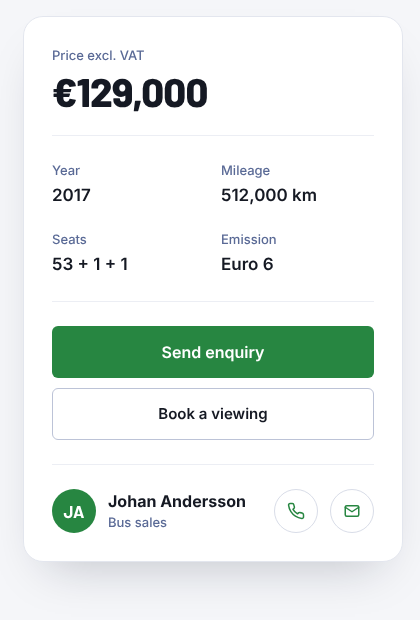
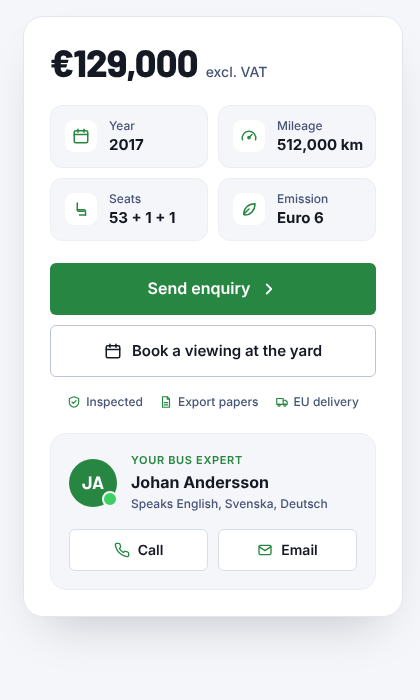
Truxco record: price card design restored with more spacing
Claude-Session: https://claude.ai/code/session_01CJrfSMbtJkdqaRmDBKHX4E

diff --git a/truxco-design/website-v2/BusDetail.dc.html b/truxco-design/website-v2/BusDetail.dc.html
@@ -43,7 +43,7 @@ a{color:#3050A6}a:hover{color:#151923}
 .bd-arrow{position:absolute;top:50%;transform:translateY(-50%);width:48px;height:48px;border-radius:50%;border:0;background:rgba(255,255,255,0.9);color:#151923;display:flex;align-items:center;justify-content:center;cursor:pointer;box-shadow:0 6px 18px rgba(0,0,0,0.25);transition:transform .15s,background .15s}.bd-arrow:hover{background:#FFFFFF;transform:translateY(-50%) scale(1.06)}
 .bd-chip-glass{white-space:nowrap;display:inline-flex;align-items:center;gap:6px;font-size:13px;font-weight:600;padding:7px 12px;border-radius:999px;background:rgba(13,16,22,0.55);border:1px solid rgba(255,255,255,0.18);backdrop-filter:blur(6px)}
 .bd-thumb{font:inherit;padding:0;border:0;border-radius:12px;overflow:hidden;aspect-ratio:4/3;cursor:pointer;background:#E3E6EE;transition:opacity .15s,outline-color .15s;outline:3px solid transparent;outline-offset:2px}.bd-thumb:hover{opacity:1!important}
-.bd-kpi{display:flex;align-items:center;gap:10px;padding:10px 12px;border-radius:12px;background:#F5F6F9;border:1px solid #ECEEF4;min-width:0}.bd-kpi-ic{flex:none;width:32px;height:32px;border-radius:9px;background:#FFFFFF;display:flex;align-items:center;justify-content:center}
+.bd-kpi{display:flex;align-items:center;gap:12px;padding:12px 14px;border-radius:12px;background:#F5F6F9;border:1px solid #ECEEF4;min-width:0}.bd-kpi-ic{flex:none;width:32px;height:32px;border-radius:9px;background:#FFFFFF;display:flex;align-items:center;justify-content:center}
 .bd-cta{display:flex;align-items:center;justify-content:center;gap:10px;height:52px;border-radius:6px;background:#278641;color:#FFFFFF;text-decoration:none;font-weight:600;font-size:16px;transition:background .15s,transform .15s}.bd-cta:hover{background:#1F6E35}
 .bd-cta2{display:inline-flex;align-items:center;justify-content:center;gap:10px;height:50px;padding:0 18px;border-radius:6px;background:#FFFFFF;color:#151923;text-decoration:none;font-weight:600;font-size:15px;border:1px solid #BCC3D7;transition:border-color .15s}.bd-cta2:hover{border-color:#475476}
 .bd-round{flex:none;width:42px;height:42px;border-radius:50%;border:1px solid #D9DDE8;display:flex;align-items:center;justify-content:center;transition:background .15s}.bd-round:hover{background:#EEF6F0}
@@ -52,7 +52,7 @@ a{color:#3050A6}a:hover{color:#151923}
 .bd-hl{display:flex;gap:12px;align-items:center;padding:14px;border-radius:14px;background:linear-gradient(180deg,#F7FBF8,#FFFFFF);border:1px solid #E2EEE5}
 .bd-hl-ic{flex:none;width:44px;height:44px;border-radius:12px;background:#E2F8E8;display:flex;align-items:center;justify-content:center}
 .bd-sgroup{padding:0 28px;border-left:1px solid #ECEEF4}.bd-sgroup:first-child{padding-left:0;border-left:0}.bd-sgroup:last-child{padding-right:0}.bd-spec{display:flex;flex-direction:column;gap:2px;padding-bottom:14px;border-bottom:1px solid #ECEEF4}.bd-spec dt{font-size:13px;color:#5A6A96}.bd-spec dd{margin:0;font-size:16px;font-weight:600;color:#151923}
-.bd-contact{display:flex;flex-direction:column;gap:12px;padding:14px;border-radius:16px;background:#F5F6F9;border:1px solid #ECEEF4}.bd-lang{font-size:12px;font-weight:600;color:#343D56;background:#FFFFFF;border:1px solid #E3E6EE;padding:4px 10px;border-radius:999px}.bd-cbtn{display:flex;align-items:center;justify-content:center;gap:8px;height:40px;border-radius:6px;background:#FFFFFF;border:1px solid #D9DDE8;color:#151923;text-decoration:none;font-weight:600;font-size:14px;transition:border-color .15s}.bd-cbtn:hover{border-color:#278641}
+.bd-contact{display:flex;flex-direction:column;gap:16px;padding:18px;border-radius:16px;background:#F5F6F9;border:1px solid #ECEEF4}.bd-lang{font-size:12px;font-weight:600;color:#343D56;background:#FFFFFF;border:1px solid #E3E6EE;padding:4px 10px;border-radius:999px}.bd-cbtn{display:flex;align-items:center;justify-content:center;gap:8px;height:40px;border-radius:6px;background:#FFFFFF;border:1px solid #D9DDE8;color:#151923;text-decoration:none;font-weight:600;font-size:14px;transition:border-color .15s}.bd-cbtn:hover{border-color:#278641}
 .bd-row{display:flex;justify-content:space-between;gap:16px;padding:11px 0;border-bottom:1px dashed #E3E6EE;font-size:15px}.bd-row dt{color:#475476}.bd-row dd{margin:0;font-weight:600;color:#151923;text-align:right}
 .bd-eq{display:flex;align-items:center;gap:12px;font-size:15px;font-weight:500;color:#151923}.bd-eq-ic{flex:none;width:22px;height:22px;border-radius:50%;background:#278641;display:flex;align-items:center;justify-content:center}
 .bd-check{display:flex;justify-content:space-between;align-items:center;gap:12px;padding:12px 0;border-bottom:1px solid #ECEEF4;font-size:15px;color:#151923}
@@ -316,21 +316,27 @@ a{color:#3050A6}a:hover{color:#151923}
 <section id="delivery" class="bd-panel" style="background: #FFFFFF; border: 1px solid #E3E6EE; border-radius: 16px; padding: clamp(20px, 3vw, 32px); display: flex; flex-direction: column; gap: 20px; scroll-margin-top: 90px"><h2 style="margin: 0; font-family: 'Barlow', sans-serif; font-weight: 700; font-size: 26px; line-height: 1.15; color: #151923">How buying works</h2><ol class="bd-steps" style="list-style: none; margin: 0; padding: 0; display: grid; grid-template-columns: repeat(4, minmax(0, 1fr)); gap: 16px"><li style="display: flex; flex-direction: column; gap: 10px; position: relative"><span class="bd-step-ic"><svg aria-hidden="true" width="22" height="22" viewBox="0 0 24 24" fill="none" stroke="#FFFFFF" stroke-width="2" stroke-linecap="round" stroke-linejoin="round" style="flex: none"><circle cx="8" cy="15" r="4"></circle><path d="M11 12l9-9M17 6l3 3"></path></svg><span class="bd-step-n">1</span></span><strong style="font-size: 16px; color: #151923">Reserve</strong><span style="font-size: 14px; color: #475476; line-height: 1.55">Pay a deposit and we hold the bus for you.</span></li><li style="display: flex; flex-direction: column; gap: 10px; position: relative"><span class="bd-step-ic"><svg aria-hidden="true" width="22" height="22" viewBox="0 0 24 24" fill="none" stroke="#FFFFFF" stroke-width="2" stroke-linecap="round" stroke-linejoin="round" style="flex: none"><rect x="2" y="5" width="20" height="14" rx="2"></rect><path d="M2 10h20"></path></svg><span class="bd-step-n">2</span></span><strong style="font-size: 16px; color: #151923">Pay</strong><span style="font-size: 14px; color: #475476; line-height: 1.55">Bank transfer or financing through our partners.</span></li><li style="display: flex; flex-direction: column; gap: 10px; position: relative"><span class="bd-step-ic"><svg aria-hidden="true" width="22" height="22" viewBox="0 0 24 24" fill="none" stroke="#FFFFFF" stroke-width="2" stroke-linecap="round" stroke-linejoin="round" style="flex: none"><path d="M14 3H6v18h12V7z"></path><path d="M14 3v4h4M9 13h6M9 17h6"></path></svg><span class="bd-step-n">3</span></span><strong style="font-size: 16px; color: #151923">Papers</strong><span style="font-size: 14px; color: #475476; line-height: 1.55">We prepare the export and registration papers.</span></li><li style="display: flex; flex-direction: column; gap: 10px; position: relative"><span class="bd-step-ic"><svg aria-hidden="true" width="22" height="22" viewBox="0 0 24 24" fill="none" stroke="#FFFFFF" stroke-width="2" stroke-linecap="round" stroke-linejoin="round" style="flex: none"><path d="M3 6h11v10H3z"></path><path d="M14 9h4l3 3v4h-7"></path><circle cx="7" cy="17.5" r="1.8"></circle><circle cx="17" cy="17.5" r="1.8"></circle></svg><span class="bd-step-n">4</span></span><strong style="font-size: 16px; color: #151923">Delivery</strong><span style="font-size: 14px; color: #475476; line-height: 1.55">Pick it up in Staffanstorp or we deliver across Europe.</span></li></ol></section>
 </div>
 <aside class="bd-buy" aria-label="Price and contact" style="align-self: start; position: sticky; top: 16px">
-<div style="background: #FFFFFF; border: 1px solid #E3E6EE; border-radius: 20px; padding: 28px; display: flex; flex-direction: column; gap: 24px; box-shadow: 0 24px 48px -24px rgba(14,22,42,0.25)">
-<div style="display: flex; flex-direction: column; gap: 6px"><span style="font-size: 13px; color: #5A6A96">Price excl. VAT</span><span style="font-family: 'Barlow', sans-serif; font-weight: 800; font-size: 40px; line-height: 1; letter-spacing: -0.02em; color: #151923">€129,000</span></div>
-<hr style="margin: 0; border: 0; border-top: 1px solid #ECEEF4">
-<div style="display: grid; grid-template-columns: repeat(2, minmax(0, 1fr)); gap: 20px 16px"><div style="display: flex; flex-direction: column; gap: 2px"><span style="font-size: 13px; color: #5A6A96">Year</span><strong style="font-size: 17px; font-weight: 600; color: #151923; white-space: nowrap">2017</strong></div><div style="display: flex; flex-direction: column; gap: 2px"><span style="font-size: 13px; color: #5A6A96">Mileage</span><strong style="font-size: 17px; font-weight: 600; color: #151923; white-space: nowrap">512,000 km</strong></div><div style="display: flex; flex-direction: column; gap: 2px"><span style="font-size: 13px; color: #5A6A96">Seats</span><strong style="font-size: 17px; font-weight: 600; color: #151923; white-space: nowrap">53 + 1 + 1</strong></div><div style="display: flex; flex-direction: column; gap: 2px"><span style="font-size: 13px; color: #5A6A96">Emission</span><strong style="font-size: 17px; font-weight: 600; color: #151923; white-space: nowrap">Euro 6</strong></div></div>
-<hr style="margin: 0; border: 0; border-top: 1px solid #ECEEF4">
+<div style="background: #FFFFFF; border: 1px solid #E3E6EE; border-radius: 20px; padding: 26px; display: flex; flex-direction: column; gap: 22px; box-shadow: 0 24px 48px -24px rgba(14,22,42,0.25)">
+<p style="margin: 0; display: flex; align-items: baseline; gap: 8px; flex-wrap: wrap"><span style="font-family: 'Barlow', sans-serif; font-weight: 800; font-size: 38px; line-height: 1; letter-spacing: -0.02em; color: #151923">€129,000</span><span style="font-size: 14px; color: #475476">excl. VAT</span></p>
+<div style="display: grid; grid-template-columns: repeat(2, minmax(0, 1fr)); gap: 10px"><div class="bd-kpi"><span class="bd-kpi-ic"><svg aria-hidden="true" width="18" height="18" viewBox="0 0 24 24" fill="none" stroke="#278641" stroke-width="2" stroke-linecap="round" stroke-linejoin="round" style="flex: none"><rect x="3" y="5" width="18" height="16" rx="2"></rect><path d="M3 10h18M8 3v4M16 3v4"></path></svg></span><span style="display: flex; flex-direction: column; gap: 2px; min-width: 0"><span style="font-size: 12px; color: #475476; line-height: 1.3">Year</span><strong style="font-size: 15px; font-weight: 700; color: #151923; white-space: nowrap; line-height: 1.3">2017</strong></span></div><div class="bd-kpi"><span class="bd-kpi-ic"><svg aria-hidden="true" width="18" height="18" viewBox="0 0 24 24" fill="none" stroke="#278641" stroke-width="2" stroke-linecap="round" stroke-linejoin="round" style="flex: none"><path d="M12 14l4-4"></path><path d="M3.3 17a9 9 0 1 1 17.4 0"></path><circle cx="12" cy="14" r="1.5"></circle></svg></span><span style="display: flex; flex-direction: column; gap: 2px; min-width: 0"><span style="font-size: 12px; color: #475476; line-height: 1.3">Mileage</span><strong style="font-size: 15px; font-weight: 700; color: #151923; white-space: nowrap; line-height: 1.3">512,000 km</strong></span></div><div class="bd-kpi"><span class="bd-kpi-ic"><svg aria-hidden="true" width="18" height="18" viewBox="0 0 24 24" fill="none" stroke="#278641" stroke-width="2" stroke-linecap="round" stroke-linejoin="round" style="flex: none"><path d="M7 4v9a2 2 0 0 0 2 2h7"></path><path d="M7 13h9a2 2 0 0 1 2 2v5"></path><path d="M10 20h8"></path></svg></span><span style="display: flex; flex-direction: column; gap: 2px; min-width: 0"><span style="font-size: 12px; color: #475476; line-height: 1.3">Seats</span><strong style="font-size: 15px; font-weight: 700; color: #151923; white-space: nowrap; line-height: 1.3">53 + 1 + 1</strong></span></div><div class="bd-kpi"><span class="bd-kpi-ic"><svg aria-hidden="true" width="18" height="18" viewBox="0 0 24 24" fill="none" stroke="#278641" stroke-width="2" stroke-linecap="round" stroke-linejoin="round" style="flex: none"><path d="M5 19c0-8 6-14 15-14 0 9-6 15-14 15"></path><path d="M5 19l7-7"></path></svg></span><span style="display: flex; flex-direction: column; gap: 2px; min-width: 0"><span style="font-size: 12px; color: #475476; line-height: 1.3">Emission</span><strong style="font-size: 15px; font-weight: 700; color: #151923; white-space: nowrap; line-height: 1.3">Euro 6</strong></span></div></div>
 <div style="display: flex; flex-direction: column; gap: 10px">
-<a href="#enquire" class="bd-cta">Send enquiry</a>
-<a href="#viewing" class="bd-cta2">Book a viewing</a>
+<a href="#enquire" class="bd-cta">Send enquiry<svg aria-hidden="true" width="18" height="18" viewBox="0 0 24 24" fill="none" stroke="currentColor" stroke-width="2.4" stroke-linecap="round" stroke-linejoin="round" style="flex: none"><path d="M9 6l6 6-6 6"></path></svg></a>
+<a href="#viewing" class="bd-cta2"><svg aria-hidden="true" width="18" height="18" viewBox="0 0 24 24" fill="none" stroke="#151923" stroke-width="2" stroke-linecap="round" stroke-linejoin="round" style="flex: none"><rect x="3" y="5" width="18" height="16" rx="2"></rect><path d="M3 10h18M8 3v4M16 3v4"></path></svg>Book a viewing at the yard</a>
+<ul style="list-style: none; margin: 6px 0 0; padding: 0; display: flex; flex-wrap: wrap; justify-content: center; gap: 4px 16px; font-size: 12px; font-weight: 500; color: #475476">
+<li style="display: flex; gap: 5px; align-items: center"><svg aria-hidden="true" width="14" height="14" viewBox="0 0 24 24" fill="none" stroke="#278641" stroke-width="2" stroke-linecap="round" stroke-linejoin="round" style="flex: none"><path d="M12 3l8 3v6c0 5-3.5 8-8 9-4.5-1-8-4-8-9V6z"></path><path d="M8.5 12l2.5 2.5 4.5-5"></path></svg>Inspected</li>
+<li style="display: flex; gap: 5px; align-items: center"><svg aria-hidden="true" width="14" height="14" viewBox="0 0 24 24" fill="none" stroke="#278641" stroke-width="2" stroke-linecap="round" stroke-linejoin="round" style="flex: none"><path d="M14 3H6v18h12V7z"></path><path d="M14 3v4h4M9 13h6M9 17h6"></path></svg>Export papers</li>
+<li style="display: flex; gap: 5px; align-items: center"><svg aria-hidden="true" width="14" height="14" viewBox="0 0 24 24" fill="none" stroke="#278641" stroke-width="2" stroke-linecap="round" stroke-linejoin="round" style="flex: none"><path d="M3 6h11v10H3z"></path><path d="M14 9h4l3 3v4h-7"></path><circle cx="7" cy="17.5" r="1.8"></circle><circle cx="17" cy="17.5" r="1.8"></circle></svg>EU delivery</li>
+</ul>
 </div>
-<hr style="margin: 0; border: 0; border-top: 1px solid #ECEEF4">
-<div style="display: flex; align-items: center; gap: 12px">
-<span aria-hidden="true" style="flex: none; width: 44px; height: 44px; border-radius: 50%; background: #278641; color: #FFFFFF; font-family: 'Barlow', sans-serif; font-weight: 700; display: flex; align-items: center; justify-content: center; font-size: 17px">JA</span>
-<span style="display: flex; flex-direction: column; gap: 1px; min-width: 0; flex: 1"><strong style="font-size: 16px; color: #151923; line-height: 1.25">Johan Andersson</strong><span style="font-size: 13px; color: #5A6A96">Bus sales</span></span>
-<a href="tel:+46102070444" class="bd-round" aria-label="Call Johan, +46 (0) 10 207 04 44"><svg aria-hidden="true" width="18" height="18" viewBox="0 0 24 24" fill="none" stroke="#278641" stroke-width="2" stroke-linecap="round" stroke-linejoin="round" style="flex: none"><path d="M22 16.9v3a2 2 0 0 1-2.2 2 19.8 19.8 0 0 1-8.6-3.1 19.5 19.5 0 0 1-6-6A19.8 19.8 0 0 1 2.1 4.2 2 2 0 0 1 4.1 2h3a2 2 0 0 1 2 1.7c.1.9.4 1.8.7 2.7a2 2 0 0 1-.5 2.1L8 9.8a16 16 0 0 0 6 6l1.3-1.3a2 2 0 0 1 2.1-.4c.9.3 1.8.6 2.7.7a2 2 0 0 1 1.7 2z"></path></svg></a>
-<a href="mailto:info@truxco.se" class="bd-round" aria-label="Email Johan"><svg aria-hidden="true" width="18" height="18" viewBox="0 0 24 24" fill="none" stroke="#278641" stroke-width="2" stroke-linecap="round" stroke-linejoin="round" style="flex: none"><rect x="3" y="5" width="18" height="14" rx="2"></rect><path d="M3 7l9 6 9-6"></path></svg></a>
+<div class="bd-contact">
+<div style="display: flex; align-items: center; gap: 14px">
+<span aria-hidden="true" style="position: relative; flex: none; width: 48px; height: 48px; border-radius: 50%; background: #278641; color: #FFFFFF; font-family: 'Barlow', sans-serif; font-weight: 700; display: flex; align-items: center; justify-content: center; font-size: 18px">JA<span style="position: absolute; right: -1px; bottom: 0; width: 12px; height: 12px; border-radius: 50%; background: #3CD064; border: 2px solid #F5F6F9"></span></span>
+<span style="display: flex; flex-direction: column; gap: 3px; min-width: 0"><span style="font-size: 11px; font-weight: 600; color: #278641; letter-spacing: 0.06em; text-transform: uppercase">Your bus expert</span><strong style="font-size: 16px; color: #151923; line-height: 1.2">Johan Andersson</strong><span style="font-size: 12px; color: #475476">Speaks English, Svenska, Deutsch</span></span>
+</div>
+<div style="display: grid; grid-template-columns: repeat(2, minmax(0, 1fr)); gap: 10px">
+<a href="tel:+46102070444" class="bd-cbtn"><svg aria-hidden="true" width="16" height="16" viewBox="0 0 24 24" fill="none" stroke="#278641" stroke-width="2" stroke-linecap="round" stroke-linejoin="round" style="flex: none"><path d="M22 16.9v3a2 2 0 0 1-2.2 2 19.8 19.8 0 0 1-8.6-3.1 19.5 19.5 0 0 1-6-6A19.8 19.8 0 0 1 2.1 4.2 2 2 0 0 1 4.1 2h3a2 2 0 0 1 2 1.7c.1.9.4 1.8.7 2.7a2 2 0 0 1-.5 2.1L8 9.8a16 16 0 0 0 6 6l1.3-1.3a2 2 0 0 1 2.1-.4c.9.3 1.8.6 2.7.7a2 2 0 0 1 1.7 2z"></path></svg>Call</a>
+<a href="mailto:info@truxco.se" class="bd-cbtn"><svg aria-hidden="true" width="16" height="16" viewBox="0 0 24 24" fill="none" stroke="#278641" stroke-width="2" stroke-linecap="round" stroke-linejoin="round" style="flex: none"><rect x="3" y="5" width="18" height="14" rx="2"></rect><path d="M3 7l9 6 9-6"></path></svg>Email</a>
+</div>
 </div>
 </div>
 </aside>

diff --git a/truxco-design/DESIGN-NOTES.md b/truxco-design/DESIGN-NOTES.md
@@ -148,3 +148,4 @@ Second artboard "UsedBuses.dc.html" in the V2 preview (https://claude.ai/artifac
   - Engine and size: Volvo D11K 11 litre, 460 hp, I-Shift; 13.8 m long, 3.7 m high, 11 m³ luggage.
   - Dates: first registered March 2017; serviced October 2026; inspected 12 October 2026; tyres 8 mm tread.
   - Description and similar buses: description sentence; prices, years, km and seats for the similar-bus cards.
+- Bus detail price card reverted to the tiles + contact-box design at the user's request, with more spacing: 26px padding, 22px gaps, 10px tile gaps, roomier tiles (12/14px), contact box 18px padding / 16px gap, 48px avatar. 601px tall.
